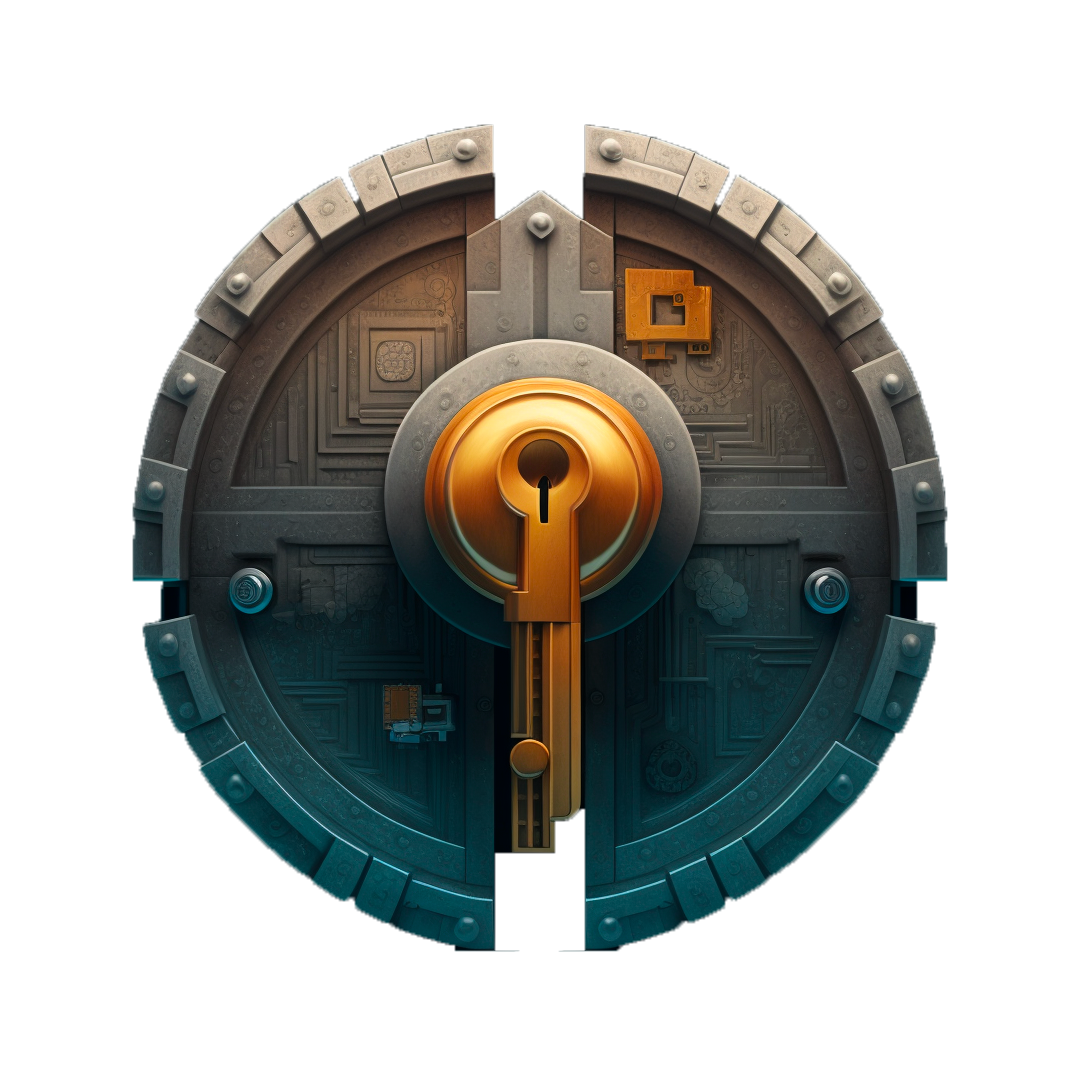
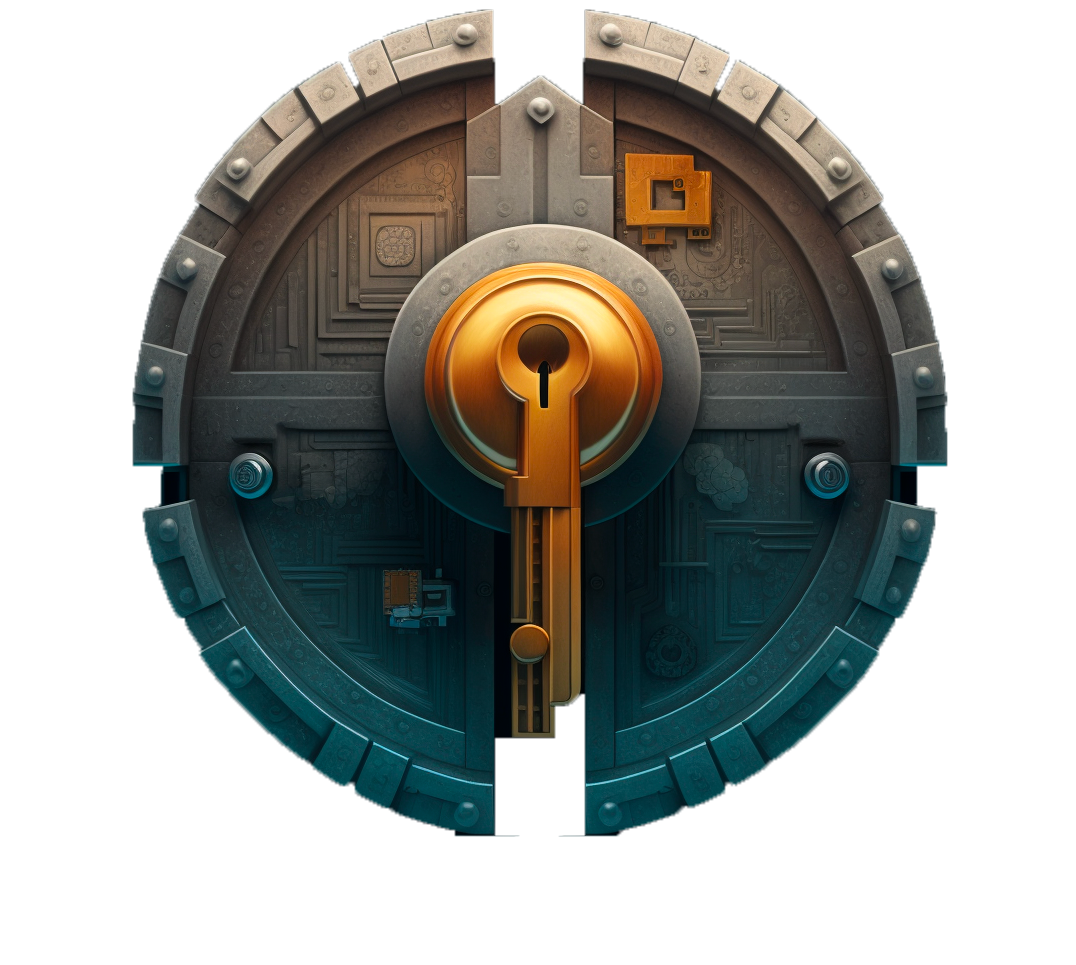
fixed landing section

diff --git a/index.html b/index.html
@@ -98,6 +98,11 @@
 
 			</div>
 		</div>
+		<style>
+			body  {
+				zoom  : 85%;
+			}
+		</style>
 	</header>
 
 	<!-- ... end Header -->
@@ -108,18 +113,18 @@
 
 
 		<section data-settings="particles-1" class="main-section  crumina-flying-balls responsive-align-center">
-			<div class="container">
+			<div class="container" style="margin-top: 250px;">
 				<div class="row">
 					<div class="col-lg-6 col-md-12 col-sm-12 col-xs-12">
 						<img class="responsive-width-50" src="img/landing1.png" alt="image">
 					</div>
-					<div class="col-lg-6 col-md-12 col-sm-12 col-xs-12 mt100">
+					<div class="col-lg-6 col-md-12 col-sm-12 col-xs-12">
 						<header class="crumina-module crumina-heading heading--h1 ">
 							<h1 class="heading-title f-size-90 weight-normal no-margin">Verifiable Credentials
 							</h1>
 							<h4 class="c-primary title-mobile">In God We Trust. Everything Else, we VERIFY</h4>
 						</header>
-
+						
 						<h3 class="text-coloured">Powered by <a href="https://archethic.net" target="_blank"><img
 									class="mobile-image-size" width="250" src="img/archethic.png" /></a></h3>
 						<div><a href="https://archethic.net/ARCHEthic_WhitePaper.pdf" target="_blank"
@@ -143,9 +148,9 @@
 
 
 
-		<section id="ecosystem" class="responsive-align-center" style="padding-top: 40px;">
+		<section id="ecosystem" class="responsive-align-center" style="margin-top:100px">
 			<div class="container">
-				<div class="row medium-padding40">
+				<div class="row medium-padding80">
 					<div class="col-lg-6 col-md-12 col-sm-12 col-xs-12">
 						<header class="crumina-module crumina-heading heading--h2">
 							<!-- <div class="heading-sup-title">Top-5 cryptocurrencies</div> -->
